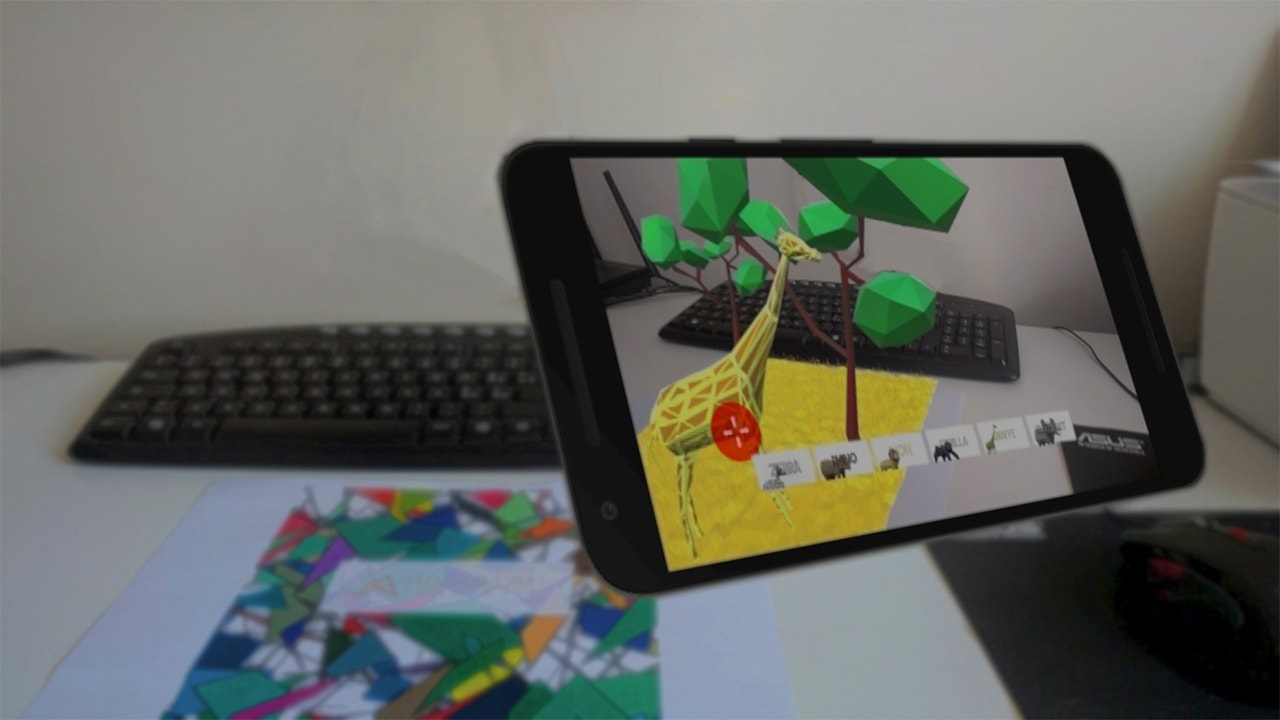
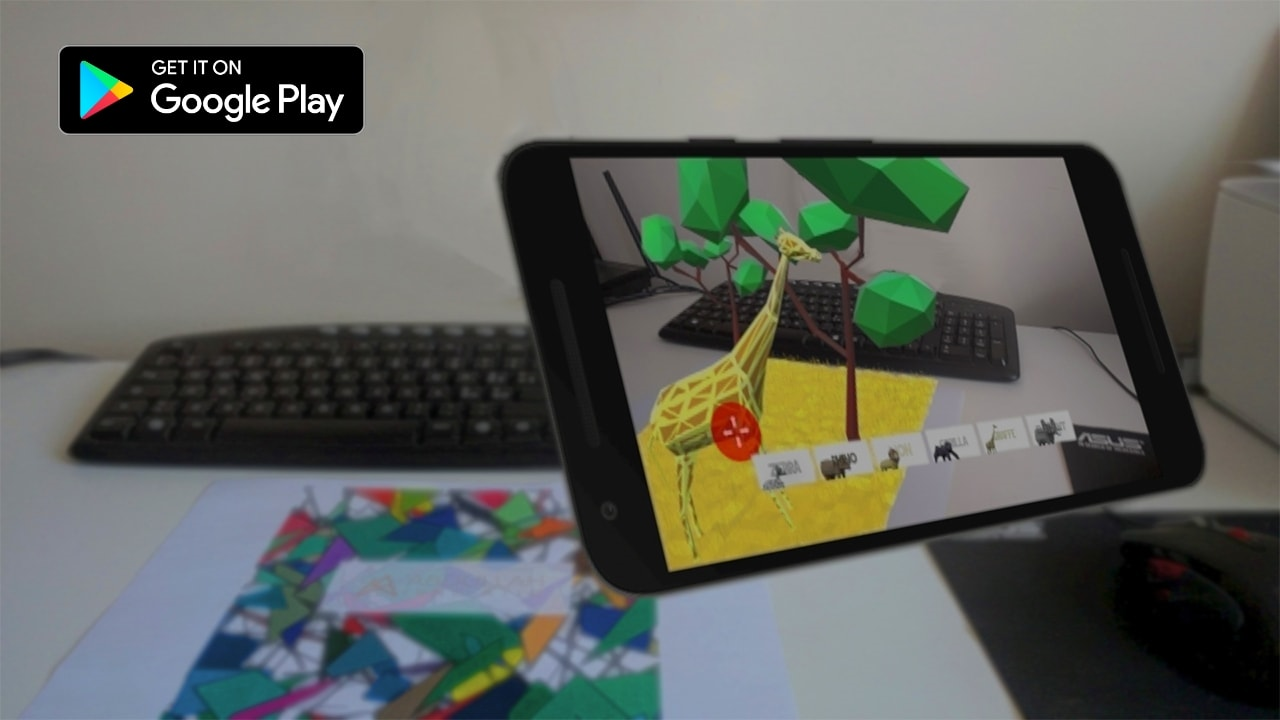
Added Play Store Link

Changed region(s): [[0.0312, 0.0611, 0.3125, 0.2139]]

diff --git a/_posts/2017-09-17-safari-animals-ar.md b/_posts/2017-09-17-safari-animals-ar.md
@@ -9,6 +9,8 @@ renders: "1.jpg,2.jpg"
 ---
 *Models created, rigged and animated in **3DS Max**, AR app packaged in **Unity**.*
 
+__**Try the game now! Head over to the [Google Play Store](https://abdu.io/play) and search *Safari Animals AR*.**__
+
 I've been offered an internship opportunity at [Inition](https://www.inition.co.uk/), a leading AR and VR company in London. Throughout my stay, I had the opportunity to work on a personal project aimed to improve my 3D modelling skills with the guidance of the lead 3D artist.
 
 The project consisted in creating an AR app for mobile devices, inspired by an exhibition of [Marokka](https://marokka.com/) where people could have used an app on their smartphones to see the animals in augmented reality.
